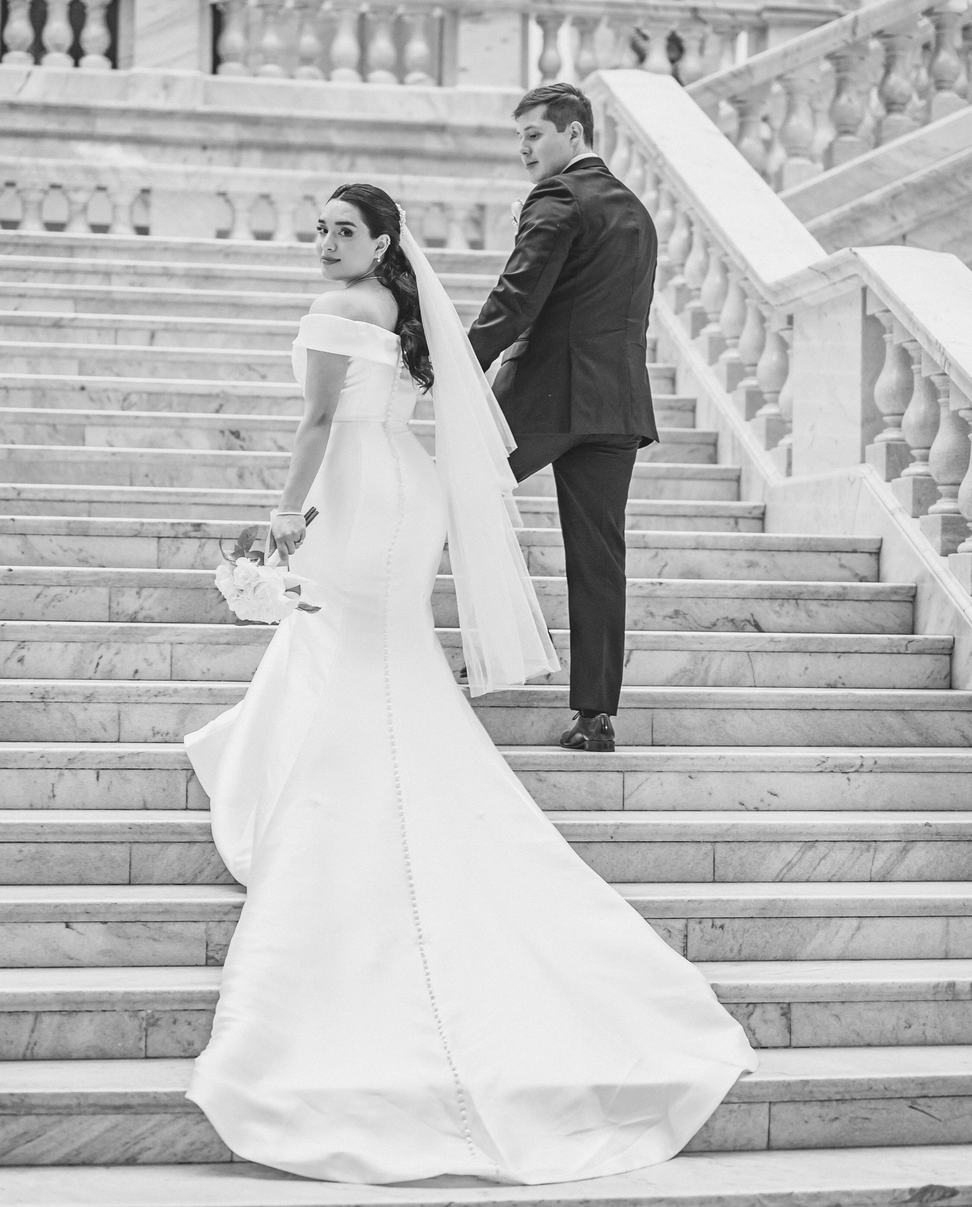
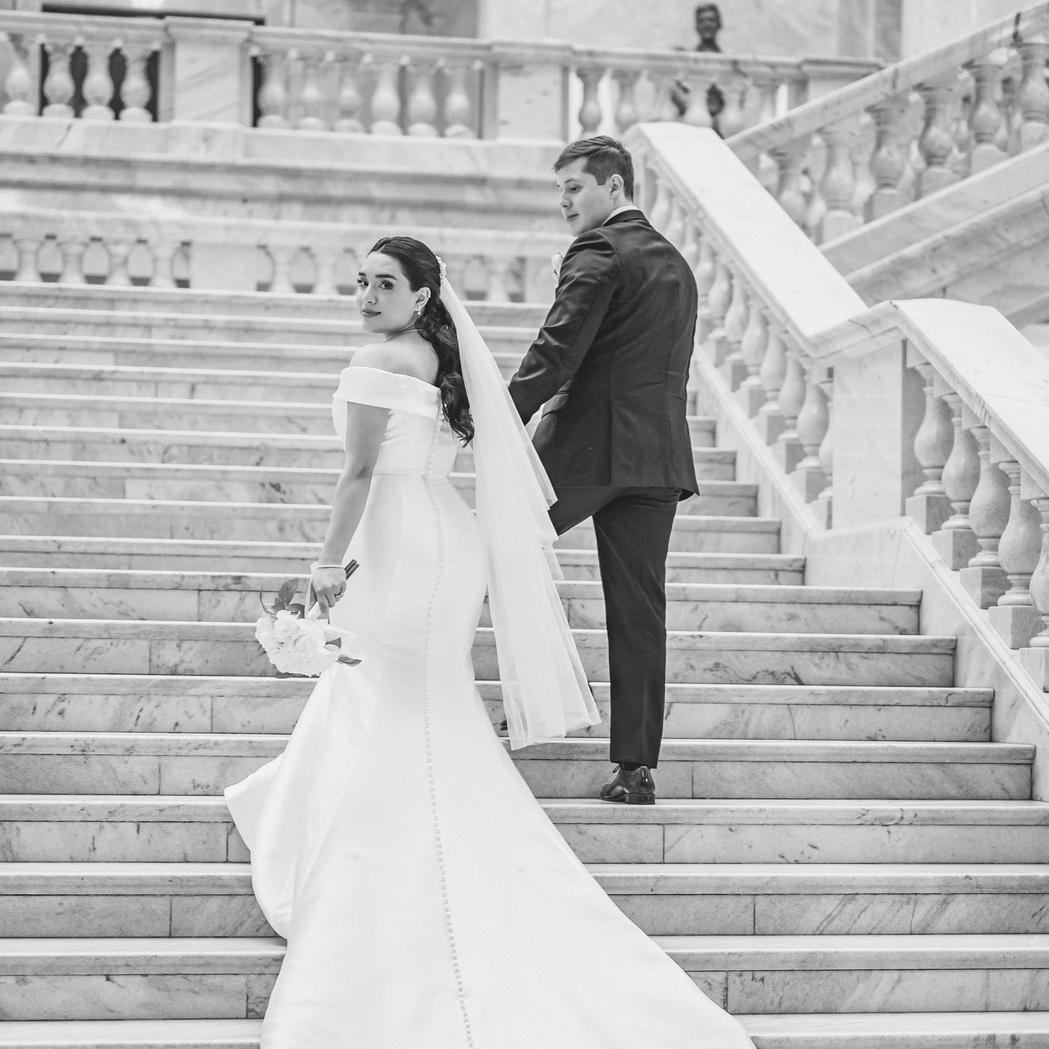
hidden

diff --git a/src/Components/Embrace/Embrace.jsx b/src/Components/Embrace/Embrace.jsx
@@ -114,7 +114,7 @@ export default function Embrace() {
               />
               <div className="data">
                 <select name="ՀյուրերիՔանակ" required>
-                  <option value="Նշեք հյուրերի քանակը" selected disabled>
+                  <option value="Նշեք հյուրերի քանակը" selected disabled hidden>
                     Նշեք հյուրերի քանակը
                   </option>
                   <option value="1">1</option>
@@ -125,8 +125,6 @@ export default function Embrace() {
                   <option value="6">6</option>
                   <option value="7">7</option>
                   <option value="8">8</option>
-                  <option value="9">9</option>
-                  <option value="10">10</option>
                   <option value="Չենք կարողանա գալ">Չենք կարողանա գալ</option>
                 </select>
                 <input
@@ -137,7 +135,7 @@ export default function Embrace() {
                 <input
                   type="number"
                   name="Հեռախոսահամար"
-                  placeholder="Ձեր Հեռախոսահամարը"
+                  placeholder="Հեռախոսահամար"
                   required
                 />
               </div>

diff --git a/src/Components/MainProject/Modal/Modal.scss b/src/Components/MainProject/Modal/Modal.scss
@@ -7,7 +7,7 @@
   width: 100%;
   height: 100vh;
   background-color: rgba($color: #000, $alpha: 0.2);
-  backdrop-filter: blur(4px);
+  backdrop-filter: blur(6px);
   display: flex;
   align-content: center;
   justify-content: center;
@@ -48,9 +48,8 @@
       flex-direction: column;
       gap: 10px;
 
-      select {
+      select, input {
         margin: 0 auto;
-
         width: 75%;
         height: 40px;
         border-radius: 10px;
@@ -61,25 +60,18 @@
         padding: 8px;
         color: var(--Ruluko);
         font-family: "Bellota Text";
+        border: 0;
         &:focus {
           outline: none;
           color: var(--Ruluko);
+    
         }
       }
       input {
-        width: 75%;
-        height: 40px;
-        border-radius: 10px;
-        background-color: var(--white);
-        color: var(--Ruluko);
-        margin: 0 auto;
-        padding: 8px;
-        border: 0;
-        font-family: "Bellota Text";
-        font-size: 14px;
+
         &::placeholder {
           color: var(--Ruluko);
-          padding: 8px;
+   
         }
         &:focus {
           outline: none;

diff --git a/src/Components/MainProject/Modal/Modal.jsx b/src/Components/MainProject/Modal/Modal.jsx
@@ -30,7 +30,7 @@ export default function Modal({ cancelModal }) {
         <h2>Оформление заказа </h2>
         <form action="https://api.web3forms.com/submit" method="POST">
           <select name="Design" required>
-            <option value="" selected disabled>
+            <option value="" selected disabled hidden>
               Выберите ваш дизайн
             </option>
             <option value="Serene">Serene</option>
@@ -43,6 +43,7 @@ export default function Modal({ cancelModal }) {
             <option value="Radiance">Radiance</option>
             <option value="Siluette">Siluette</option>
             <option value="Spark">Spark</option>
+            <option value="Eclipse">Eclipse</option>
           </select>
           <input type="text" placeholder="Имя Фамилия" name="Name" required />
           <input type="tel" placeholder="Tелефон" name="PhoneNumber" required />

diff --git a/src/Components/MainProject/Products/Products.jsx b/src/Components/MainProject/Products/Products.jsx
@@ -38,7 +38,7 @@ const source = [
   },
   {
     id: 5,
-    img: "./images/Embrace/wedding(1).jpg",
+    img: "./images/Embrace/wedding_cr.jpg",
     title: "Embrace",
     desc: '"Тепло объятий, которые связывают сердца навеки."',
     price: "89 Gel",
@@ -79,7 +79,7 @@ const source = [
 
   {
     id: 10,
-    img: "./images/Spark/wedding(1).jpg",
+    img: "./images/Spark/wedding(1)_cr.jpg",
     title: "Spark",
     desc: '"Искра, с которой начинается ваше вечное пламя любви"',
     price: " 129 Gel",

diff --git a/src/Components/Eclipse/Eclipse.scss b/src/Components/Eclipse/Eclipse.scss
@@ -231,16 +231,16 @@
   }
 }
 
-button {
-  margin: 20px auto;
-  background-color: transparent;
-  border: 0;
-  border: 2px solid white;
-  color: white;
-  border-radius: 35px;
-  padding: 5px 45px;
-  font-weight: lighter;
-}
+// button {
+//   margin: 20px auto;
+//   background-color: transparent;
+//   border: 0;
+//   border: 2px solid white;
+//   color: white;
+//   border-radius: 35px;
+//   padding: 5px 45px;
+//   font-weight: lighter;
+// }
 @font-face {
   font-family: "MontserratARM";
   src: url("./font/Montserratarm-Light.otf");

diff --git a/src/Components/Serene/Serene.jsx b/src/Components/Serene/Serene.jsx
@@ -143,7 +143,7 @@ export default function Serene() {
 
           <form action="https://api.web3forms.com/submit" method="POST">
             <select name="Հյուրերի քանակ" required>
-              <option value="Հյուրերի քանակ" selected disabled>
+              <option value="Հյուրերի քանակ" selected disabled hidden>
                 Նշեք հյուրերի քանակը
               </option>
               <option value="1">1</option>

diff --git a/src/Components/Pagination/Pagination.scss b/src/Components/Pagination/Pagination.scss
@@ -14,15 +14,19 @@
     > div {
       width: 300px;
       height: 480px;
-      opacity: 0.9;
+     
       background-color: var(--white);
       border-radius: 8px;
+     
       
 
       img {
-        width: 300px;
-        height: 280px;
-        padding: 20px;
+        width: 260px;
+        height: 240px;
+        border-top-left-radius: 8px;
+        border-top-right-radius: 8px;
+        margin: 20px;
+        opacity: 0.9;
  
       }
       h1 {

diff --git a/src/Components/MainProject/Products/Products.scss b/src/Components/MainProject/Products/Products.scss
@@ -6,11 +6,10 @@
   display: flex;
   justify-content: center;
   align-items: center;
-  gap: 20px;
+  gap: 18px;
   width: 100%;
   height: 80px;
   margin-bottom: 20px;
-
 }
 .navigation li {
   display: flex;
@@ -30,9 +29,4 @@ li.selected {
   scale: 1;
   outline: 3px solid var(--lightGold);
   outline-offset: 5px;
-  a {
-    width: 50px;
-    border-radius: 50%;
-    text-align: center;
-  }
 }

diff --git a/src/Components/Embrace/Embrace.scss b/src/Components/Embrace/Embrace.scss
@@ -221,7 +221,7 @@
       @media (max-width: 500px) {
         &-box {
           h2 {
-            font-size: 40px;
+            font-size: 38px;
           }
           img {
             width: 200px;
